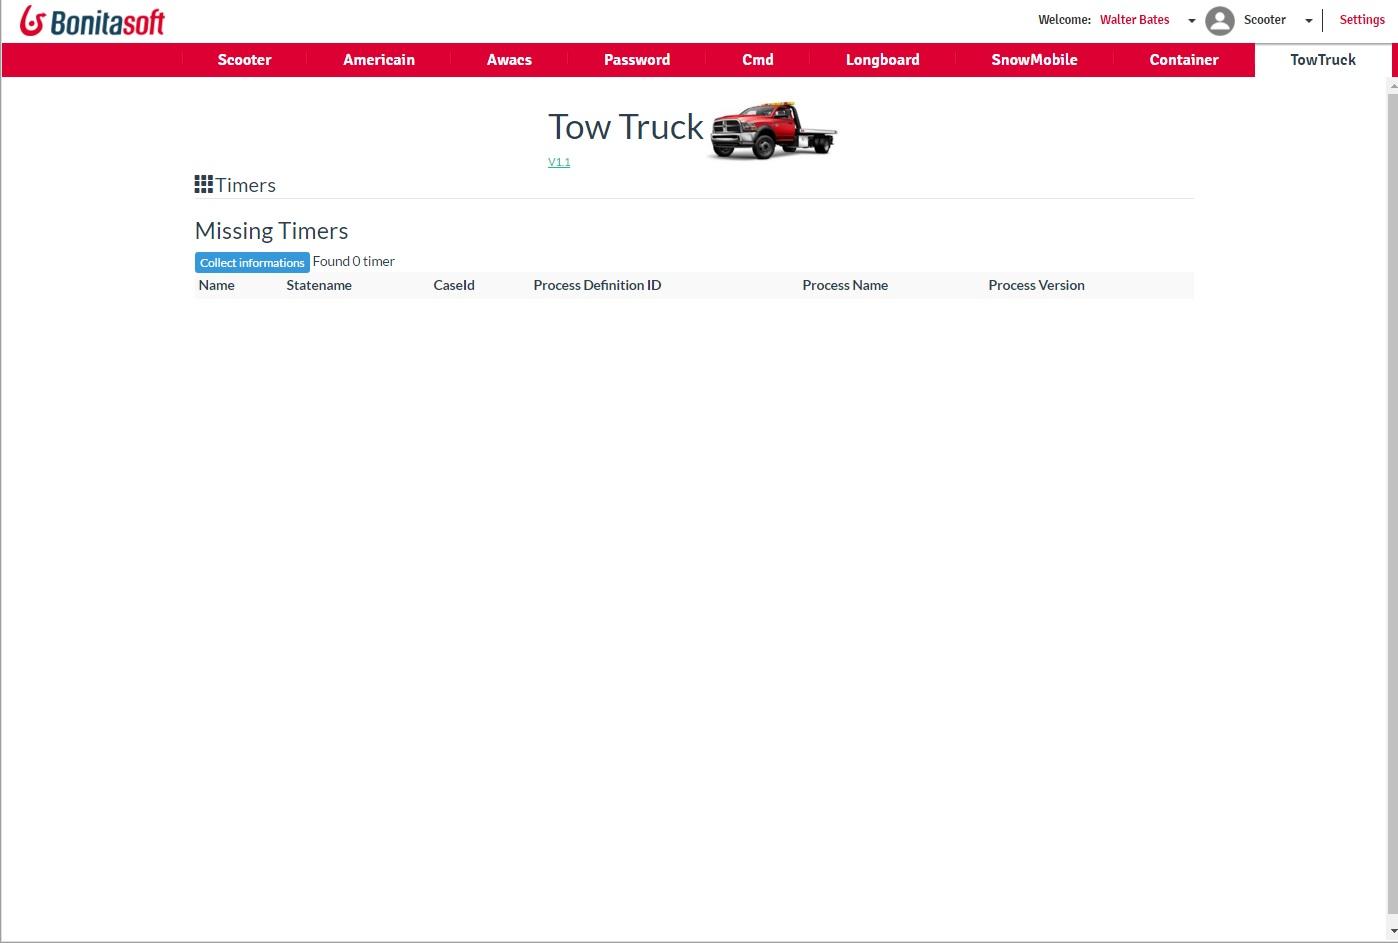
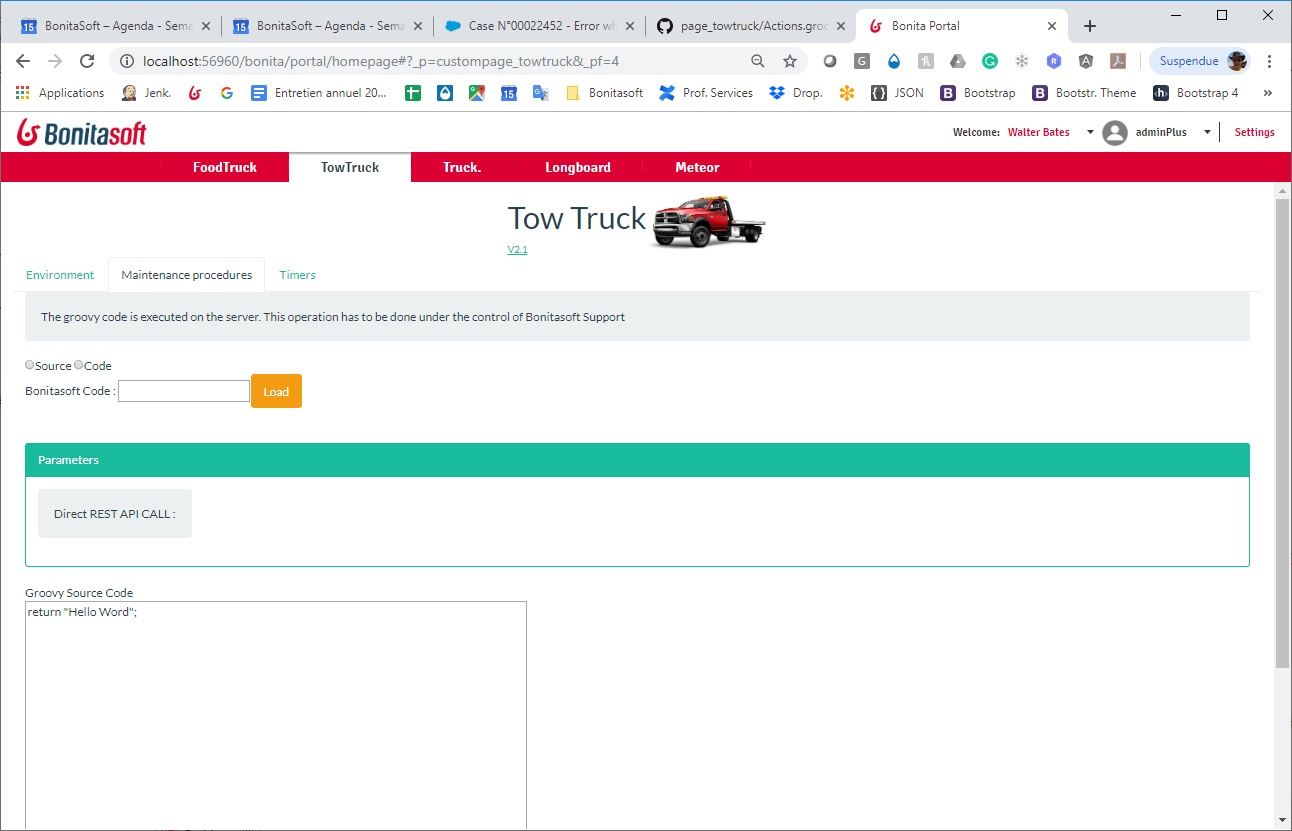
Minor improvement

diff --git a/src/src/com/bonitasoft/custompage/towtruck/GroovyMaintenance.java b/src/src/com/bonitasoft/custompage/towtruck/GroovyMaintenance.java
@@ -1,0 +1,211 @@
+package com.bonitasoft.custompage.towtruck;
+
+import java.util.ArrayList;
+import java.util.Arrays;
+import java.util.HashMap;
+import java.util.List;
+import java.util.Map;
+
+import javax.servlet.http.HttpServletRequest;
+import javax.servlet.http.HttpSession;
+
+import org.bonitasoft.log.event.BEvent;
+import org.bonitasoft.log.event.BEvent.Level;
+import org.bonitasoft.log.event.BEventFactory;
+import org.bonitasoft.store.ArtefactItem;
+import org.bonitasoft.store.BonitaStore.UrlToDownload;
+import org.bonitasoft.store.BonitaStoreAPI;
+import org.bonitasoft.store.BonitaStoreGit;
+import org.bonitasoft.store.StoreResult;
+import org.bonitasoft.store.toolbox.LogBox;
+import org.codehaus.groovy.control.CompilerConfiguration;
+
+import groovy.lang.Binding;
+import groovy.lang.GroovyShell;
+
+
+public class GroovyMaintenance {
+  
+  
+  private final static BEvent NO_CODE_FOUND = new BEvent(GroovyMaintenance.class.getName(), 1, Level.APPLICATIONERROR, "This Groovy does code exist", 
+      "No groovy is found with this code.",
+      "Nothing to propose",
+      "Check the code (and the content of the git repository)");
+  private final static BEvent SUSPICIOUS_GROOVY = new BEvent(GroovyMaintenance.class.getName(), 2, Level.APPLICATIONERROR, "Suspicious groovy", 
+      "The groovy loaded is suspicious",
+      "The groovy may be not correct, and execution may be not expected",
+      "Check the Groovy code");
+  
+  private final static BEvent NO_GROOVY_SOURCE = new BEvent(GroovyMaintenance.class.getName(), 3, Level.APPLICATIONERROR, "No Groovy Source", 
+      "No groovy source is not found",
+      "No groovy script is executed",
+      "Check the session : you may be disconnected");
+  
+  private final static BEvent GROOVY_DOWNLOADED = new BEvent(GroovyMaintenance.class.getName(), 4, Level.SUCCESS, "Groovy Downloaded", 
+      "The groovy is downloaded with success" );
+
+  private final static BEvent GROOVY_EXECUTED = new BEvent(GroovyMaintenance.class.getName(), 5, Level.SUCCESS, "Groovy executed with success", 
+      "The groovy is executed with success" );
+  
+  
+  private final static BEvent GROOVY_EXECUTION_FAILED = new BEvent(GroovyMaintenance.class.getName(), 6, Level.APPLICATIONERROR, "Groovy executioopn failed", 
+      "The groovy send an error",
+      "Script is not executed",
+      "Check the result");
+  /*
+   * Load a groovy maintenance for Github
+   */
+  public static Map<String,Object> getGroovyMaintenance(HttpServletRequest request, String groovyCode)
+  {
+    Map<String,Object> result = new HashMap<String,Object> ();
+    List<BEvent> listEvents = new ArrayList<BEvent>();
+    
+    LogBox logBox = new LogBox();
+    BonitaStoreGit bonitaStore = BonitaStoreAPI.getGitStore( BonitaStoreAPI.CommunityGithubUserName, BonitaStoreAPI.CommunityGithubPassword, "https://api.github.com/repos/Bonitasoft-Community/page_towntruck");
+    bonitaStore.setSpecificRepository("/contents/GroovyMaintenance");
+    StoreResult storeResult = bonitaStore.getListFiles(Arrays.asList(ArtefactItem.TypeArtefacts.GROOVY), false, logBox);
+    listEvents.addAll( storeResult.getEvents());
+    ArtefactItem groovyArtefact =storeResult.getArtefactByName(groovyCode+".groovy");  
+    if (groovyArtefact == null)
+    {
+      listEvents.add( new BEvent( NO_CODE_FOUND, "Code["+groovyCode+"]"));
+    }
+    else
+    {
+      List<Object> listPlaceHolder = new ArrayList<Object>();
+      // load it
+      storeResult=bonitaStore.downloadOneArtefact(groovyArtefact, UrlToDownload.URLDOWNLOAD, false, logBox);
+      listEvents.addAll( storeResult.getEvents());
+      if (! BEventFactory.isError( listEvents) )
+      {
+        String groovySource = storeResult.content;
+        // detect all place holder
+        int scanPosition=0;
+        while (scanPosition < groovySource.length())
+        {
+          int nextPlaceHolder = groovySource.indexOf("{{", scanPosition);
+          if (nextPlaceHolder==-1)
+            scanPosition = groovySource.length();
+          else
+          {
+            scanPosition = nextPlaceHolder+2;
+            int endPlaceHolder = groovySource.indexOf("}}", nextPlaceHolder+2);
+            if (endPlaceHolder!=-1)
+            {
+              String placeHolder = groovySource.substring(nextPlaceHolder+2, endPlaceHolder);
+              
+              // place holder can be a simple key, or contains something like "{{sqllist;tips:Give a list of the different item}}
+              Map<String,Object> onePlaceHolderMap = new HashMap<String,Object>();
+              String[] listAttribute = placeHolder.split(";");
+              onePlaceHolderMap.put("key", placeHolder);
+              onePlaceHolderMap.put("label", listAttribute[ 0 ]);
+              for( int i=1;i<listAttribute.length;i++)
+              {
+                String attribute = listAttribute[ i ];
+                String[] attributeSplit = attribute.split(":");
+                if (attributeSplit.length==2)
+                  onePlaceHolderMap.put( attributeSplit[ 0], attributeSplit[ 1 ]);
+                
+              }
+              listPlaceHolder.add( onePlaceHolderMap );
+              scanPosition= endPlaceHolder+2;
+            }
+            else // end end place holder, then we can stop
+            {
+              scanPosition = groovySource.length();
+              listEvents.add( new BEvent( SUSPICIOUS_GROOVY, "Place Holder starts {{ at position ["+nextPlaceHolder+"] and not finish"));
+            }
+            }
+          } // end detection place holder
+        if (! BEventFactory.isError( listEvents ))
+          listEvents.add( GROOVY_DOWNLOADED);
+        
+        // we saved the groovy in the Tomcat session
+        if (request!=null)
+        {
+          HttpSession httpSession = request.getSession();
+          httpSession.setAttribute("groovy",groovySource);
+        }
+        result.put("placeholder", listPlaceHolder);
+      }
+    }
+    result.put("listevents", BEventFactory.getHtml(listEvents));
+  
+    return result;    
+  }
+
+  /**
+   * execute a Groovy Maintenance code
+   * @param request
+   * @param groovySource
+   * @param placeHolder
+   * @param binding
+   * @return
+   */
+  public static Map<String,Object> executeGroovyMaintenance(HttpServletRequest request, String groovySource, List<Map<String,String>> listPlaceHolders, Binding binding )
+  {
+    
+    Map<String,Object> result = new HashMap<String,Object> ();
+    List<BEvent> listEvents = new ArrayList<BEvent>();
+    if (groovySource==null && request!=null)
+      {
+        HttpSession httpSession = request.getSession();
+        groovySource = (String) httpSession.getAttribute("groovy");
+      }
+    
+    if (groovySource==null)
+    {
+      listEvents.add( NO_GROOVY_SOURCE);
+    }
+    else
+    {
+      if (listPlaceHolders!=null)
+      {
+        // replace all place holder now
+        for (Map<String, String> placeHolder : listPlaceHolders)
+        {
+          int loop=0;
+          // do not use the replaceAll : the place holder can be interpreted as a expression
+          while (groovySource.contains("{{"+placeHolder.get("key")+"}}") && loop < 100)
+          {
+            groovySource = groovySource.replace("{{"+placeHolder.get("key")+"}}", placeHolder.get("value"));
+            loop++;
+          }
+        }
+      }
+      try
+      {
+        // now execute it
+        CompilerConfiguration conf = new CompilerConfiguration();
+        GroovyShell shell = new GroovyShell(binding, conf);
+        long timeBegin = System.currentTimeMillis();
+        Object resultExecution =  shell.evaluate(groovySource);
+        long timeEnd = System.currentTimeMillis();
+        // logger.info("#### towtruckCustomPage:Result ="+result);
+        if (resultExecution==null)
+          resultExecution="Script was executed with success, but do not return any result.";
+        result.put("result", resultExecution);
+        listEvents.add( new BEvent( GROOVY_EXECUTED, "in "+(timeEnd-timeBegin)+" ms"));
+      }
+      catch(Exception e)
+      {
+        listEvents.add( new BEvent( GROOVY_EXECUTION_FAILED, e, ""));
+        result.put("exception", "Error "+e.getMessage());
+        
+      }
+    }
+    result.put("listevents", BEventFactory.getHtml(listEvents));
+    
+    return result;    
+    }
+  
+   /**
+    * to test it
+    * @param args
+    */
+  public static void main(final String[] args) {
+    
+    Map<String,Object> result = getGroovyMaintenance(null, "Ping");
+    System.out.println("Result = "+result);
+  }
+}
